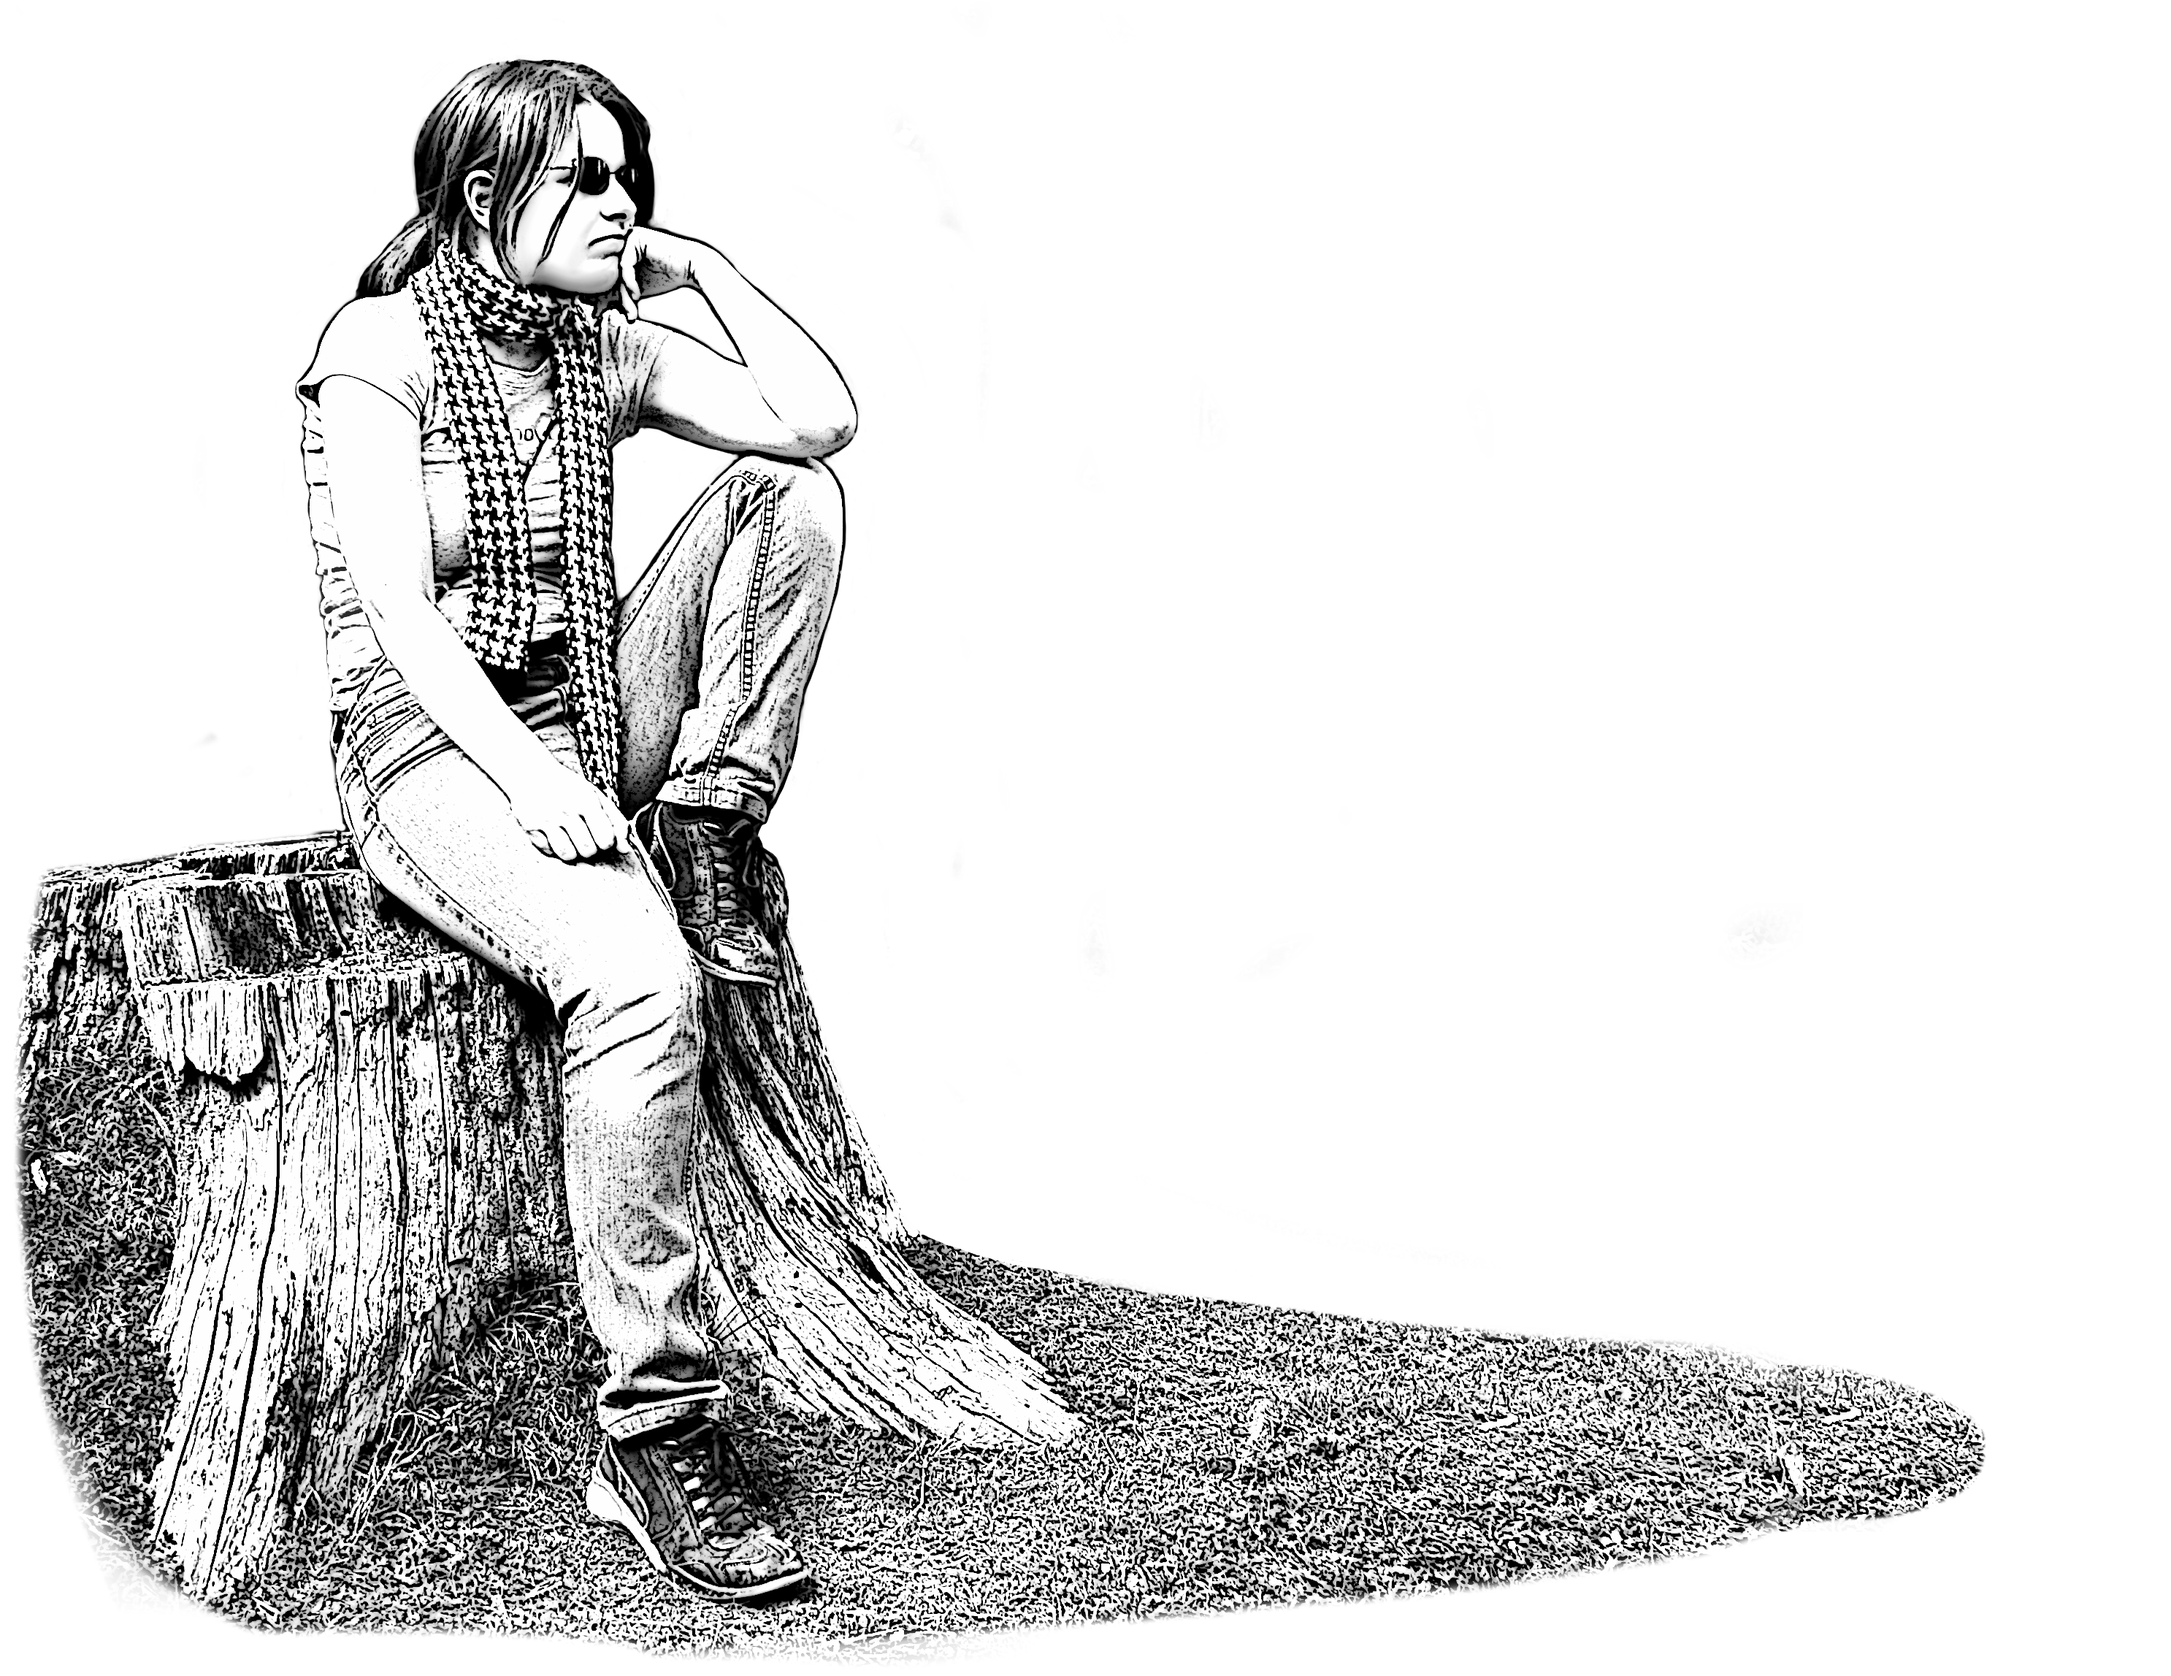
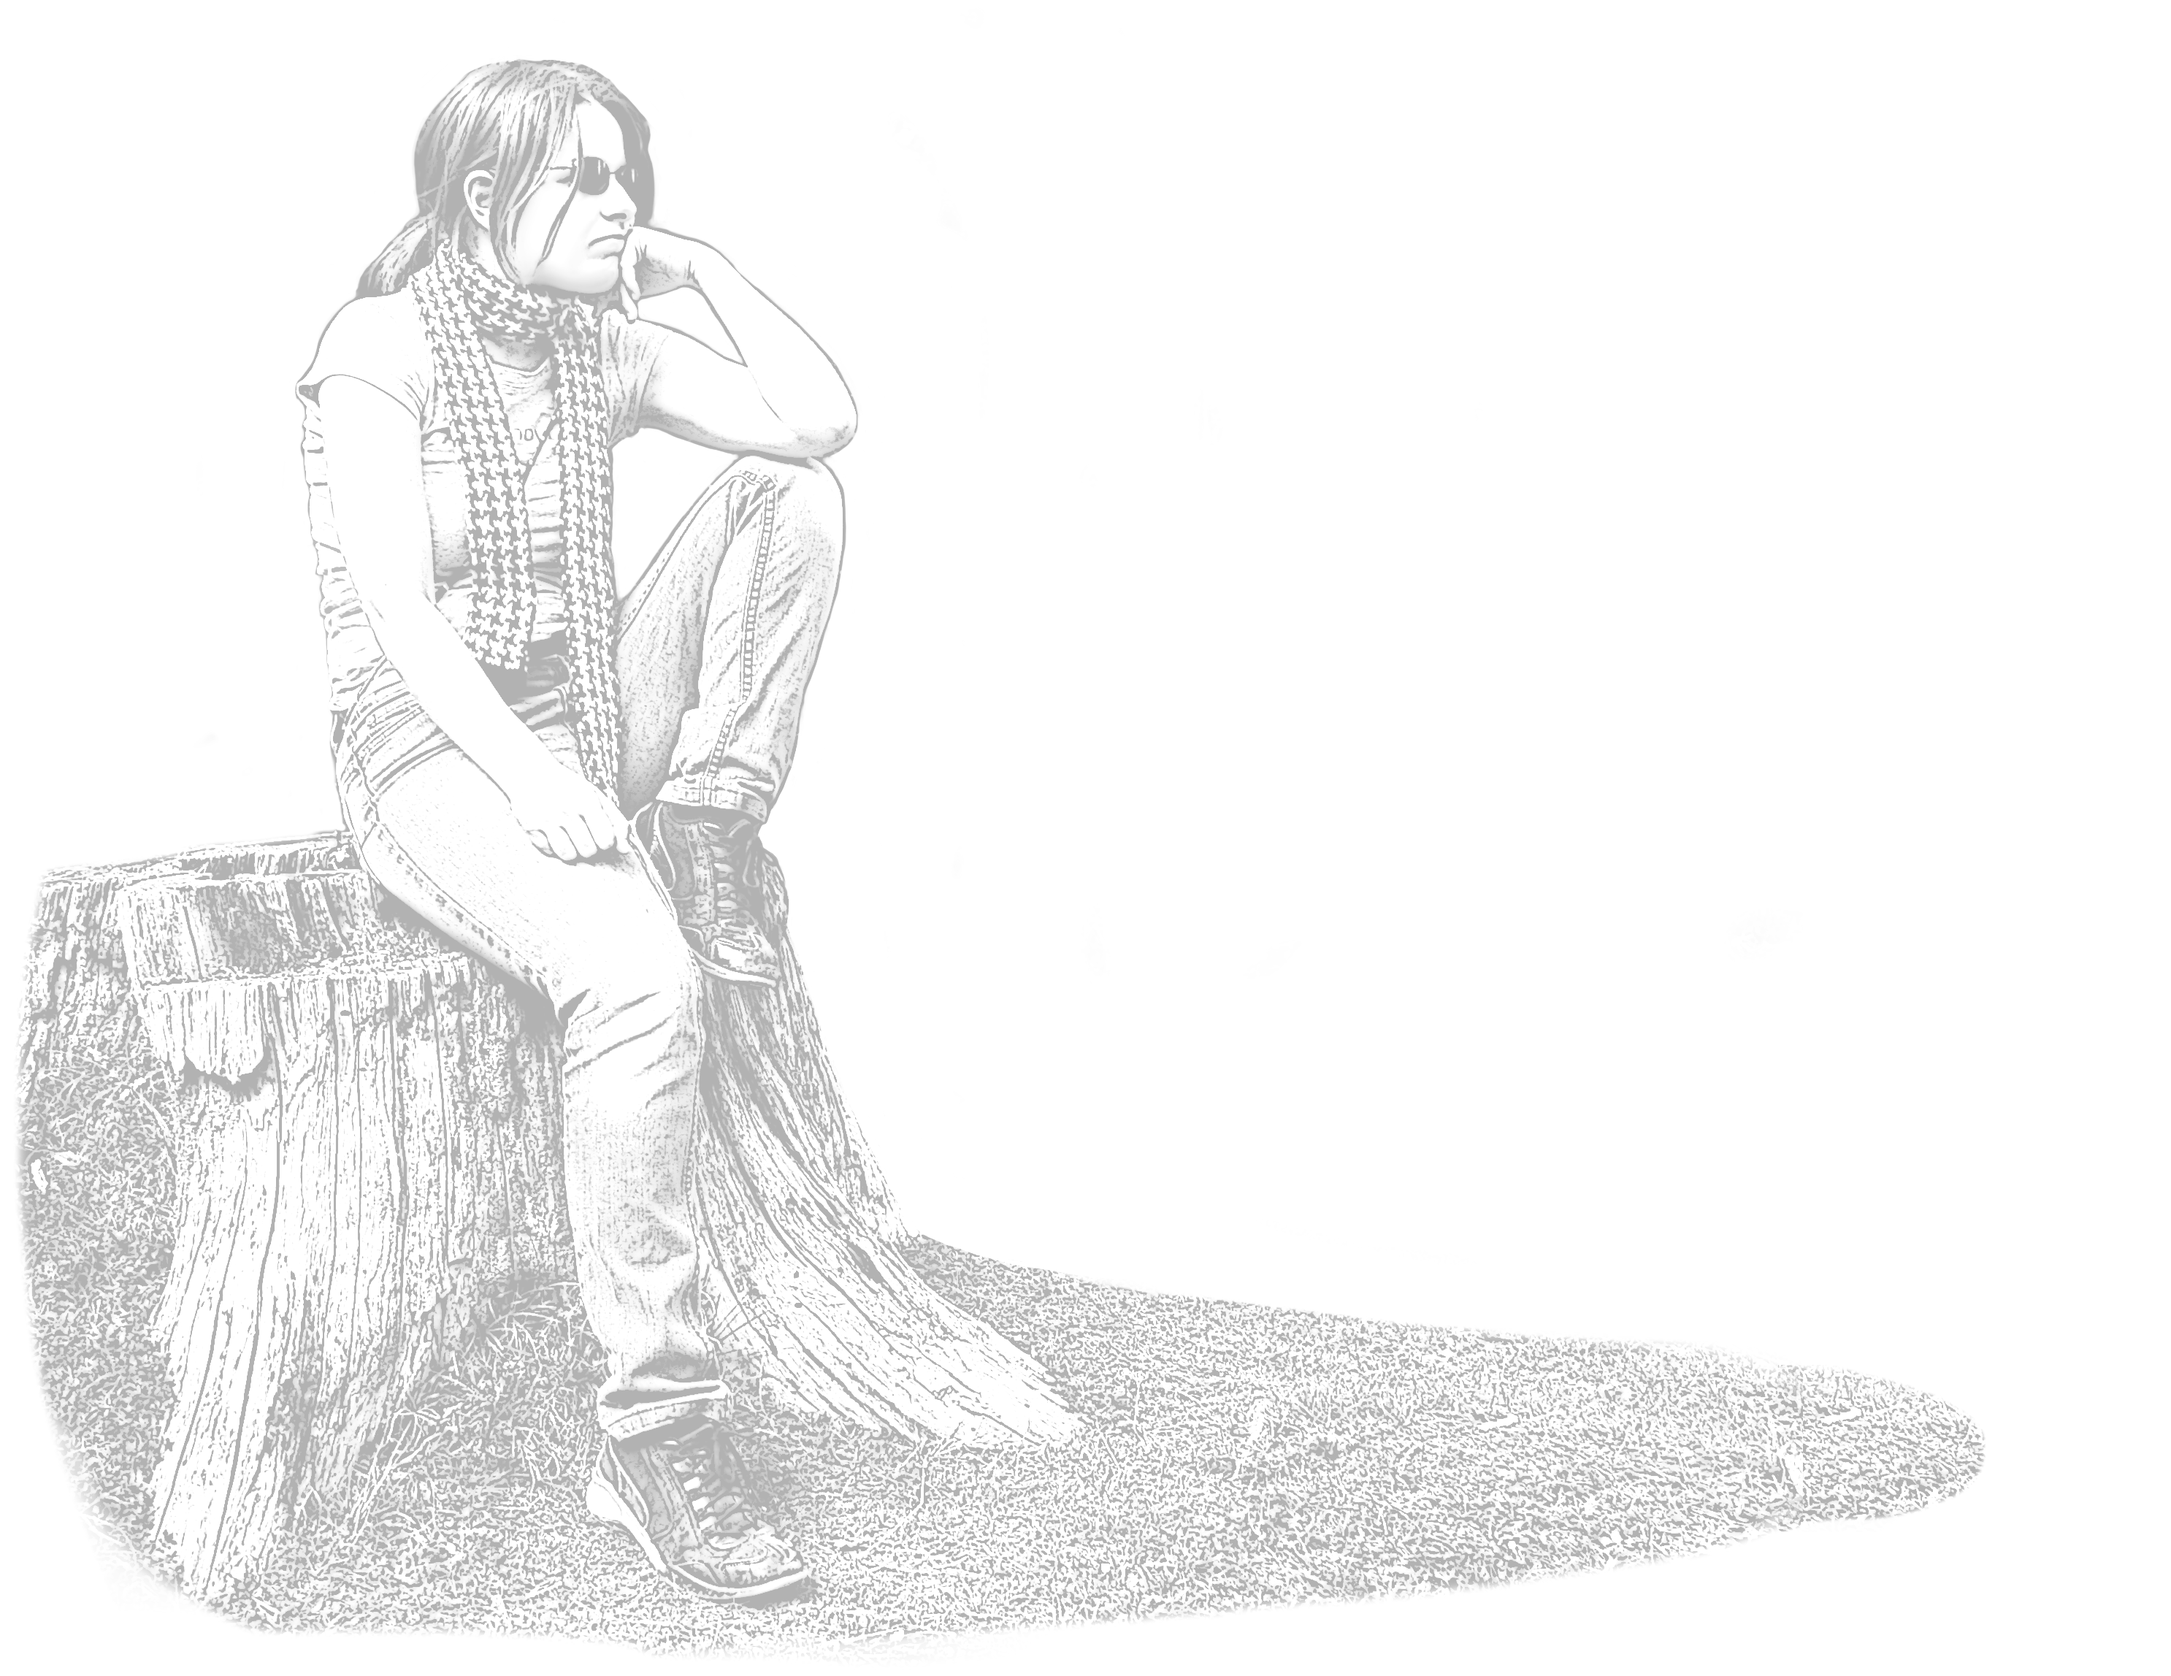
Sistemato testo della bio
-aggiunto e definito lo stile dei link
-corretto il testo
-aggiunto la visualizzazione a 2 colonne per grandi schermi
-cambiato immagine in background
-corretto posizione immagine e testo

Changed region(s): [[0.0, 0.0309, 0.9284, 0.99], [0.1238, 0.2166, 0.1547, 0.2475]]

diff --git a/index.html b/index.html
@@ -73,20 +73,19 @@
                     
                     <div class="container flexbox-column">
                         <div id="bioText">
-                            <p>Dopo essermi laureata in <strong>Scienze dei Beni Culturali</strong> ho lavorato per 5 anni nel settore tra <strong>musei e biblioteche</strong> dove ho avuto modo di comprendere bene le esigenze sia degli utenti che degli enti pubblici o privati. <br/>
+                            <p>Dopo essermi laureata in <strong>Scienze dei Beni Culturali</strong> ho lavorato per 5 anni nel settore tra <strong>musei e biblioteche</strong> dove ho avuto modo di comprendere bene le esigenze sia degli utenti che degli enti pubblici e privati. <br/>
 
-                           <p>Non ho mai smesso di sperimentare con la tecnologia per passione arrivando a saper fare <strong>software development</strong>. <br/>
+                            Non ho mai smesso di sperimentare con la tecnologia per passione arrivando al <strong>software development</strong>. <br/>
                             
-                            Qui potete trovare alcuni dei miei lavori. </p>
+                            <a href="#projects">Qui</a> potete trovare alcuni dei miei lavori. </p>
                             
-                           <p>Non vedo l’ora di mettermi in gioco perché con la tecnologia voglio aggiungere nuovi validi mezzi per diffondere il sapere.<br/>
+                           <p>Aumentando il dialogo tra mondo tecnologico e classico si trovano nuovi validi mezzi per diffondere il sapere.<br/>
                             
                             Il mio obiettivo è appianare le differenze tra mondo culturale e tecnologico dimostrando in prima persona che un laureato in discipline umanistiche può perfettamente intendere di informatica.
-                            Penso che sia uno stereotipo che è costato sin troppo per tutte le possibilità che abbiamo lasciato indietro.</p>
+                            Penso che sia uno stereotipo che è costato sin troppo per tutte le possibilità che abbiamo lasciato indietro.
                             
-                            <p>Se volete potete sostenere il mio progetto <strong>LupiCattivi</strong> seguendomi sui social. </p>
+                            <br/>Il mio progetto si chiama <strong>Lupi Cattivi</strong> e potete seguendomi sui <a href="#contacts">social!</a> </p>
                         </div>
-                        <img src="./img/photoBio.png " alt="">
                     </div>
                 </div>
 

diff --git a/css/style.css b/css/style.css
@@ -28,7 +28,7 @@ p, input, button {
 a, a:active, a:visited, a:hover {
     text-decoration: none;
     color: rgb(120, 120, 120);
-    display: block; /*per farlo funzionare con text-align: come un <p>*/
+    display: inherit; /*cosi' funziona con text-align: come un <p> nella lista progetti e per il resto funziona inline*/
 }
 
 li {
@@ -140,27 +140,40 @@ section {
     width: 300px;
 }
 
-#bio>.page>.container {
-    padding: 150px
+#bio > .page > .container {
+    max-width: 100%;
+    background-image: url('/img/photoBio.png');
+    background-size: 1000px;
+    background-repeat: no-repeat;
+    mix-blend-mode: multiply;
+    margin-left: -5px;
 }
 
 #bioText {
-    translate: 225px;
-    margin-right: 85px;
+    display: flex;
+    gap: 10%;
+    justify-content: end;
+    margin-top: 30px;
+    margin-right: 13%;
+    margin-bottom: 50px;
 }
 
-#bio > .page > .container > img {
-    position: relative;
-    margin: -500px 0 0 -270px;
-    width: 100%;
-    left: 0;
-    bottom: 0;
-    z-index: -1;
-    mix-blend-mode: multiply;
-    opacity: 0.3;
+#bioText > p > a {
+    color: darkred;
+    display: inline;
+}
+
+#bioText > p {
+    min-width: 250px;
+    width: 200px;
 }
 
 
+#bioText br {
+    display: block;
+    margin: 2em;
+    font-size: 30% 
+}
 
 /*stile progetti*/
 
@@ -355,7 +368,9 @@ width: calc(80% - 50px);
     text-transform: uppercase;
 }
 
-
+.card> a {
+    display: block;
+}
 
 .card > a > p, .card > div > p {
     font-size: 18pt;
@@ -546,27 +561,29 @@ ul#contacts-list > li> a > img {
         max-width: none;
     }
 }
-
-@media screen and (max-width: 1000px) {
+@media screen and (max-width: 1360px) {
     #bio > .page > .container {
-        padding: 30px ;
-        margin-left: 50px;
-    }
+        background-size: 800px;
 
-    #bio > .page > .container > img {
-        display: none;
     }
-
     #bioText {
-        translate: unset;
-       
+        margin-right: 8%;
     }
-}
-
+}    
 @media screen and (max-width: 1200px) {
     #projects>.page>.container {
         flex-flow: column-reverse;
     }
+    
+    #bio > .page > .container {
+        background-image: none;
+    }
+
+    #bioText {
+        justify-content: center;
+        margin: 20px;
+    }
+}
 
 }
 
@@ -578,4 +595,17 @@ ul#contacts-list > li> a > img {
     ul#contacts-list > li > a > img {
         width: 35px;
     }
+}
+
+@media screen and (max-width: 1000px) {
+    #bioText {
+        display: block;
+        margin: 50px;
+    }
+
+    #bioText > p {
+        width: auto;
+    }
+
+
 }
